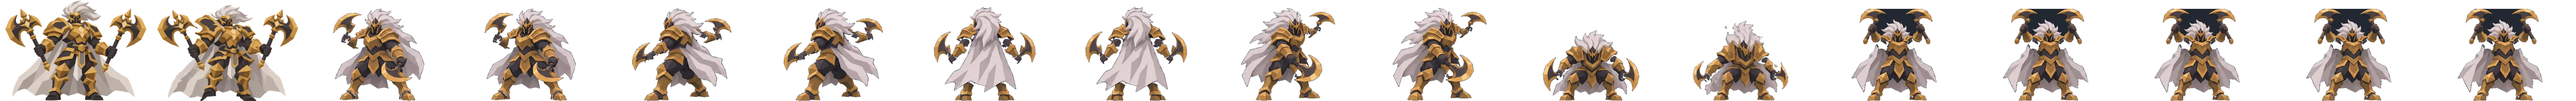
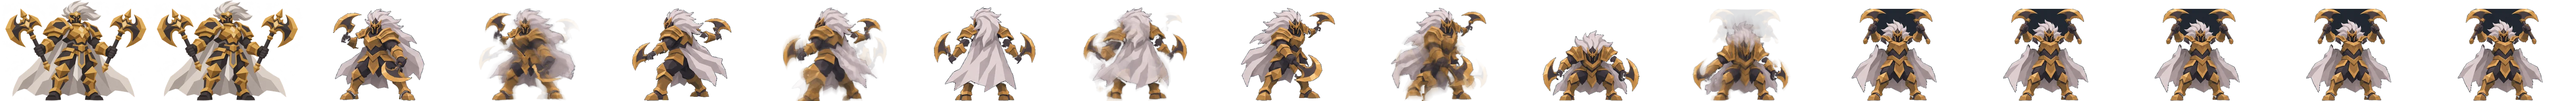
Add directional attack smears to General Khan

diff --git a/docs/BOSS_WORKFLOW.md b/docs/BOSS_WORKFLOW.md
@@ -27,7 +27,8 @@ Use this workflow for new units and animation updates in Villain Run. The delive
 ## 5. Interpolate motion before export
 
 - Keep an untouched copy of the aligned keyframes. Run motion interpolation between clean poses to generate in-between frames. Try 24–30 fps for review while keeping the original move duration and release or impact timing.
-- Check the actual generated frames, not just the preview at normal speed. Look for ghosting, doubled weapons, melted hands, warped faces, shifting feet, and flickering transparency. Compare the smoothed pass to the original keyframes.
+- Replay the result at game speed. If anything looks off, step through the generated frames and compare them to the original keyframes. Look for unwanted ghosting, doubled weapons, warped grips, shifting feet, and flickering transparency.
+- On fast swings and spins, add directional smears to the in-between frames. Keep the held poses, weapon release, and impact sharp so the move still reads clearly.
 - Replace bad in-betweens with clean drawn poses or keep a sharp transition where a hit or abrupt turn needs it. Do not blend across a cut, a deliberate impact hold, or mismatched silhouettes just to increase frame rate.
 
 ## 6. Preview the GIF and export WebP
